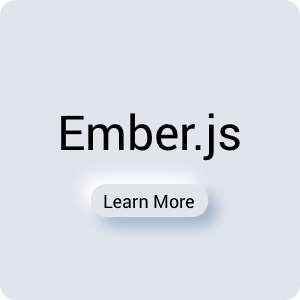
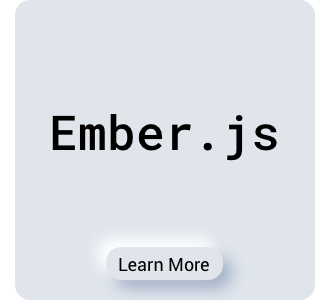
various_responsive_web_fixes

diff --git a/app/styles/_emberconf.scss b/app/styles/_emberconf.scss
@@ -1,6 +1,6 @@
 .ember_conf {
   display: flex;
-  background-color: #E05C45;
+  background-color: #8695AC;
   justify-content: center;
   align-items: center;
   font-size: 15px;
@@ -13,11 +13,14 @@
   }
 
   .learn_more {
-    box-shadow: 5px 5px 16px #be4e3b, -5px -5px 16px #c95d4a;
+    box-shadow: 5px 5px 16px #727f92, -5px -5px 16px #9aabc6;
     border-radius: 15px;
     margin-left: 20px;
-    padding: 0px 20px;
+    padding: 10px 20px;
     font-size: 12px;
+    white-space: nowrap;
+    
+    
 
     @include md {
       padding: 6px 20px;
@@ -52,7 +55,7 @@
   }
 
   .learn_more:hover {
-    box-shadow: inset 6px 6px 6px #be4e3b, inset -6px -6px 6px #ff6a4f;
+    box-shadow: inset 6px 6px 6px #727f92, inset -6px -6px 6px #9aabc6;
   }
 
 }

diff --git a/app/styles/_skills.scss b/app/styles/_skills.scss
@@ -21,16 +21,18 @@
 
 .skills_body {
   text-align: left;
-  margin-left: 20px;
-  margin-right: 20px;
+  margin-left: 30px;
+  margin-right: 30px;
   font-size: larger;
   margin-bottom: 100px;
+  font-family: 'Roboto Mono', monospace;
 
   @include xl {
     margin-left: 350px;
     margin-right: 350px;
     font-size: x-large;
     margin-bottom: 100px;
+    font-family: 'Roboto Mono', monospace;
   }
   
   h3 {
@@ -46,15 +48,15 @@
   }
 
   a:link {
-    color: #E05C45;
+    color: 	#4072bd
   }
 
   a:visited {
-    color: #E05C45;
+    color: 	#4072bd
   }
 
   a:hover {
-    color: #F6A459;
+    color: #8695AC;
   }
 }
 

diff --git a/app/styles/body.scss b/app/styles/body.scss
@@ -4,7 +4,7 @@ body {
   min-height: 100%;
   margin: 0;
   font-size: larger;
-  font-family: 'Roboto', sans-serif;
+ font-family: monospace;
   background-color: #e0e5ec;
   overflow-x: hidden;
 }
@@ -14,6 +14,7 @@ body {
   text-align: left;
   margin-left: 20px;
   margin-right: 20px;
+  font-family: 'Roboto Mono', monospace;
 
   @include xl {
     font-size: larger;
@@ -26,6 +27,7 @@ body {
   text-align: center;
   font-size: larger;
   font-weight: bold;
+  
 
   hr {
     height: 2px;
@@ -73,6 +75,7 @@ body {
   align-items: center;
   margin-top: 25px;
   margin-bottom: 25px;
+  
 
   @include xl {
     display: flex;

diff --git a/app/styles/_home.scss b/app/styles/_home.scss
@@ -448,7 +448,17 @@
         align-items: center;
         margin-top: auto;
         
-    
+        .down_arrow_main_text {
+          display: none;
+
+          @include lg {
+            display: flex;
+          }
+
+          @include xl {
+            display: flex;
+          }
+        }
         .down_arrow_main {
           display: flex;
           flex: 1;
@@ -498,8 +508,6 @@
           cursor: pointer;
           margin-top: -100px;
           
-          
-
 
           img {
             width: 40px;

diff --git a/app/styles/app.scss b/app/styles/app.scss
@@ -13,3 +13,4 @@
 @import url('https://fonts.googleapis.com/css2?family=BioRhyme:wght@300;400;700&family=Space+Mono&display=swap');
 @import url('https://fonts.googleapis.com/css2?family=Sriracha&display=swap');
 @import url('https://fonts.googleapis.com/css2?family=Space+Mono&display=swap');
+@import url('https://fonts.googleapis.com/css2?family=Roboto+Mono:wght@400&display=swap');

diff --git a/app/app.js b/app/app.js
@@ -10,3 +10,5 @@ export default class App extends Application {
 }
 
 loadInitializers(App, config.modulePrefix);
+
+
